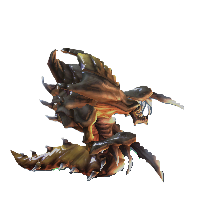
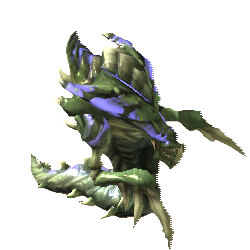
add units

diff --git a/components/shared/game-fields/shop-main-one.tsx b/components/shared/game-fields/shop-main-one.tsx
@@ -5,16 +5,23 @@ import { useGameStore } from "@/store/game";
 export const ShopMainOne: React.FC = () => {
   const [showModalShop, setShowModalShop] = React.useState(false);
 
-  const [baseImage, mana, playerUnitsOne, minerals, attack, bossLife, addWorker] =
-    useGameStore((state) => [
-      state.one.image,
-      state.one.mana,
-      state.one.units,
-      state.one.minerals,
-      state.two.fighterUp.attack,
-      state.one.boss,
-      state.createWorker,
-    ]);
+  const [
+    baseImage,
+    mana,
+    playerUnitsOne,
+    minerals,
+    attack,
+    bossLife,
+    addWorker,
+  ] = useGameStore((state) => [
+    state.one.image,
+    state.one.mana,
+    state.one.units,
+    state.one.minerals,
+    state.two.fighterUp.attack,
+    state.one.boss,
+    state.createWorker,
+  ]);
 
   return (
     <Container className="p-1">
@@ -41,6 +48,9 @@ export const ShopMainOne: React.FC = () => {
             src={playerUnitsOne[0]?.image}
             className="w-[50px] h-[50px] cursor-pointer"
           />
+          <span className="absolute bottom-11 w-[16px] h-[16px] text-center text-white text-[12px] font-bold bg-blue-500 pointer-events-none">
+            1
+          </span>
         </div>
       </div>
 

diff --git a/components/shared/start-page/start-buttons.tsx b/components/shared/start-page/start-buttons.tsx
@@ -1,10 +1,14 @@
 import React from "react";
-import { cn } from "@/lib/utils";
-import Link from "next/link";
 import { Button } from "@/components/ui";
 import { useGame } from "@/hooks/use-game";
 import { useAuth } from "@/hooks/use-auth";
-import { ChooseModeButton, Login, NewGameButton, Register } from "..";
+import {
+  ChooseModeButton,
+  ContinueButton,
+  Login,
+  NewGameButton,
+  Register,
+} from "..";
 import { removeToken } from "@/app/actions";
 
 interface Props {
@@ -29,7 +33,7 @@ export const StartButtons: React.FC<Props> = ({
 
   return (
     <div className="flex justify-center gap-10 text-[22px]">
-      <ChooseModeButton />
+      <ChooseModeButton isAuth={isAuth} />
 
       <NewGameButton
         nameOne={nameOne}
@@ -39,16 +43,8 @@ export const StartButtons: React.FC<Props> = ({
         isGame={isGame}
       />
 
-      <Link
-        href="/game"
-        className={cn({
-          "pointer-events-none": !isGame,
-        })}
-      >
-        <Button size="lg" disabled={!isGame}>
-          Continue
-        </Button>
-      </Link>
+      <ContinueButton isGame={isGame} />
+
       <div>
         {!isAuth && (
           <Button

diff --git a/constants/zerg.ts b/constants/zerg.ts
@@ -2,41 +2,41 @@ export const ZERG = [
   {
     name: "drone",
     image: "/images/imgZerg/drone.png",
-    health: 1,
     mana: 1,
+    health: 1,
     attack: 1,
     price: 1,
   },
   {
     name: "zergling",
     image: "/images/imgZerg/zerling.png",
-    health: 1,
     mana: 1,
+    health: 1,
     attack: 1,
     price: 1,
   },
   {
-    name: "gydral",
-    image: "/images/imgZerg/gidral.png",
-    health: 2,
+    name: "roach",
+    image: "/images/imgZerg/roach.png",
     mana: 1,
-    attack: 2,
+    health: 2,
+    attack: 1,
     price: 2,
   },
   {
-    name: "mutalisk",
-    image: "/images/imgZerg/mutalisk.png",
-    health: 3,
-    mana: 2,
+    name: "gidral",
+    image: "/images/imgZerg/gidral.png",
+    mana: 1,
+    health: 2,
     attack: 2,
     price: 3,
   },
   {
-    name: "ultralisk",
-    image: "/images/imgZerg/ultralisk.png",
-    health: 8,
-    mana: 3,
-    attack: 5,
-    price: 6,
+    name: "mutalisk",
+    image: "/images/imgZerg/mutalisk.png",
+    mana: 2,
+    health: 3,
+    attack: 2,
+    price: 3,
   },
 ];

diff --git a/components/shared/start-page/start-buttons/choose-mode-button.tsx b/components/shared/start-page/start-buttons/choose-mode-button.tsx
@@ -2,7 +2,11 @@ import React from "react";
 import { useGameStore } from "@/store/game";
 import { Button } from "@/components/ui";
 
-export const ChooseModeButton: React.FC = () => {
+interface Props {
+  isAuth: boolean;
+}
+
+export const ChooseModeButton: React.FC<Props> = ({ isAuth }) => {
   const [gameMode, chooseGameMode] = useGameStore((state) => [
     state.gameMode,
     state.chooseGameMode,
@@ -13,6 +17,7 @@ export const ChooseModeButton: React.FC = () => {
       {gameMode === "PLAYER" && (
         <Button
           size="lg"
+          disabled={!isAuth}
           className="bg-indigo-500 hover:bg-indigo-600 px-10"
           onClick={() => {
             chooseGameMode("COMPUTER");
@@ -24,6 +29,7 @@ export const ChooseModeButton: React.FC = () => {
       {gameMode === "COMPUTER" && (
         <Button
           size="lg"
+          disabled={!isAuth}
           className="bg-indigo-500 hover:bg-indigo-600 px-6"
           onClick={() => {
             chooseGameMode("PLAYER");

diff --git a/constants/terran.ts b/constants/terran.ts
@@ -2,41 +2,41 @@ export const TERRAN = [
   {
     name: "KSM",
     image: "/images/imgTerran/KSM.png",
-    health: 1,
     mana: 1,
+    health: 1,
     attack: 1,
     price: 1,
   },
   {
     name: "marine",
     image: "/images/imgTerran/marine.png",
-    health: 2,
     mana: 1,
+    health: 2,
     attack: 1,
-    price: 1,
+    price: 2,
+  },
+  {
+    name: "hellion",
+    image: "/images/imgTerran/hellion.png",
+    mana: 1,
+    health: 2,
+    attack: 2,
+    price: 3,
   },
   {
     name: "fireman",
     image: "/images/imgTerran/fireman.png",
-    health: 3,
     mana: 2,
-    attack: 3,
-    price: 2,
+    health: 3,
+    attack: 2,
+    price: 3,
   },
   {
     name: "maroder",
     image: "/images/imgTerran/maroder.png",
-    health: 3,
     mana: 2,
-    attack: 4,
-    price: 3,
-  },
-  {
-    name: "tank",
-    image: "/images/imgTerran/tank.png",
-    health: 4,
-    mana: 3,
-    attack: 6,
-    price: 5,
+    health: 3,
+    attack: 3,
+    price: 4,
   },
 ];

diff --git a/constants/protoss.ts b/constants/protoss.ts
@@ -2,41 +2,41 @@ export const PROTOSS = [
   {
     name: "probe",
     image: "/images/imgProtoss/probe.png",
-    health: 1,
     mana: 1,
+    health: 1,
     attack: 1,
     price: 1,
   },
   {
     name: "zealot",
     image: "/images/imgProtoss/zealot.png",
-    health: 2,
     mana: 1,
+    health: 2,
     attack: 2,
-    price: 2,
+    price: 3,
   },
   {
     name: "stalker",
     image: "/images/imgProtoss/stalker.png",
-    health: 2,
     mana: 2,
-    attack: 3,
+    health: 3,
+    attack: 2,
     price: 3,
   },
   {
     name: "colossus",
     image: "/images/imgProtoss/colossus.png",
-    health: 5,
-    mana: 3,
+    mana: 2,
+    health: 3,
     attack: 3,
-    price: 5,
+    price: 4,
   },
   {
     name: "carrier",
     image: "/images/imgProtoss/carrier.png",
-    health: 6,
-    mana: 3,
+    mana: 2,
+    health: 4,
     attack: 3,
-    price: 6,
+    price: 5,
   },
 ];

diff --git a/components/shared/game-fields/minerals.tsx b/components/shared/game-fields/minerals.tsx
@@ -19,7 +19,7 @@ export const Minerals: React.FC<Props> = ({ worker, mine, reverse }) => {
       <div className={cn("flex flex-row-4 gap-2", { "justify-end": !reverse })}>
         {worker.map((worker, index) => (
           <Unit
-            key={index}            
+            key={index}
             name={worker.name}
             image={worker.image}
             health={worker.health}
@@ -40,6 +40,9 @@ export const Minerals: React.FC<Props> = ({ worker, mine, reverse }) => {
             Left <b>{mine}</b> minerals:
           </span>
         </Button>
+        <span className="absolute bottom-10 translate-x-16 w-[16px] h-[16px] text-center text-white text-[12px] font-bold bg-blue-500 pointer-events-none">
+          1
+        </span>
         <Button
           variant="outline"
           size="sm"

diff --git a/components/shared/index.ts b/components/shared/index.ts
@@ -29,7 +29,8 @@ export { SaveGame } from "./menu/save-game";
 export { ExitGame } from "./menu/exit-game";
 export { DeleteGame } from "./menu/delete-game";
 export { Alert } from "./utils/alert";
-export { NewGameButton } from "./start-page/new-game-button";
+export { NewGameButton } from "./start-page/start-buttons/new-game-button";
 export { SoundGame } from "./audio/sound-game";
 export { StartTurn } from "./effects/start-turn";
-export { ChooseModeButton } from "./start-page/choose-mode-button";
+export { ChooseModeButton } from "./start-page/start-buttons/choose-mode-button";
+export { ContinueButton } from "./start-page/start-buttons/continue-button";

diff --git a/components/shared/start-page/start-buttons/continue-button.tsx b/components/shared/start-page/start-buttons/continue-button.tsx
@@ -1,0 +1,23 @@
+import React from "react";
+import { cn } from "@/lib/utils";
+import Link from "next/link";
+import { Button } from "@/components/ui";
+
+interface Props {
+  isGame: boolean;
+}
+
+export const ContinueButton: React.FC<Props> = ({ isGame }) => {
+  return (
+    <Link
+      href="/game"
+      className={cn({
+        "pointer-events-none": !isGame,
+      })}
+    >
+      <Button size="lg" disabled={!isGame}>
+        Continue
+      </Button>
+    </Link>
+  );
+};

diff --git a/components/shared/shop/shop-modal.tsx b/components/shared/shop/shop-modal.tsx
@@ -2,7 +2,6 @@ import React from "react";
 import { Button, Dialog, DialogContent, DialogTitle } from "../../ui";
 import { unitType, useGameStore } from "@/store/game";
 import { ShopContent } from "..";
-import toast from "react-hot-toast";
 
 interface Props {
   playerUnits: unitType[];
@@ -27,7 +26,6 @@ export const ShopModal: React.FC<Props> = ({
     addUnit(unitId);
     setActiveUnit(0);
     closeModal();
-    toast.success(`Unit added to your army`);
   };
 
   return (

diff --git a/components/shared/game-fields/shop-main-two.tsx b/components/shared/game-fields/shop-main-two.tsx
@@ -41,6 +41,9 @@ export const ShopMainTwo: React.FC = () => {
             src={playerUnitsTwo[0]?.image}
             className="w-[50px] h-[50px] cursor-pointer scale-x-[-1]"
           />
+          <span className="absolute bottom-11 w-[16px] h-[16px] text-center text-white text-[12px] font-bold bg-blue-500 pointer-events-none">
+            1
+          </span>
         </div>
         <div>
           <img

diff --git a/components/shared/game-page/staff.tsx b/components/shared/game-page/staff.tsx
@@ -47,7 +47,7 @@ export const Staff: React.FC = () => {
       )}
 
       <motion.div
-        className="absolute bottom-0 mx-4 text-3xl text-blue-700 font-bold"
+        className="absolute bottom-2 mx-4 text-2xl text-blue-700 font-bold"
         initial={{ opacity: 0, x: 100 }}
         animate={{ opacity: 1, x: 0, transition: { duration: 1 } }}
         key={message}
